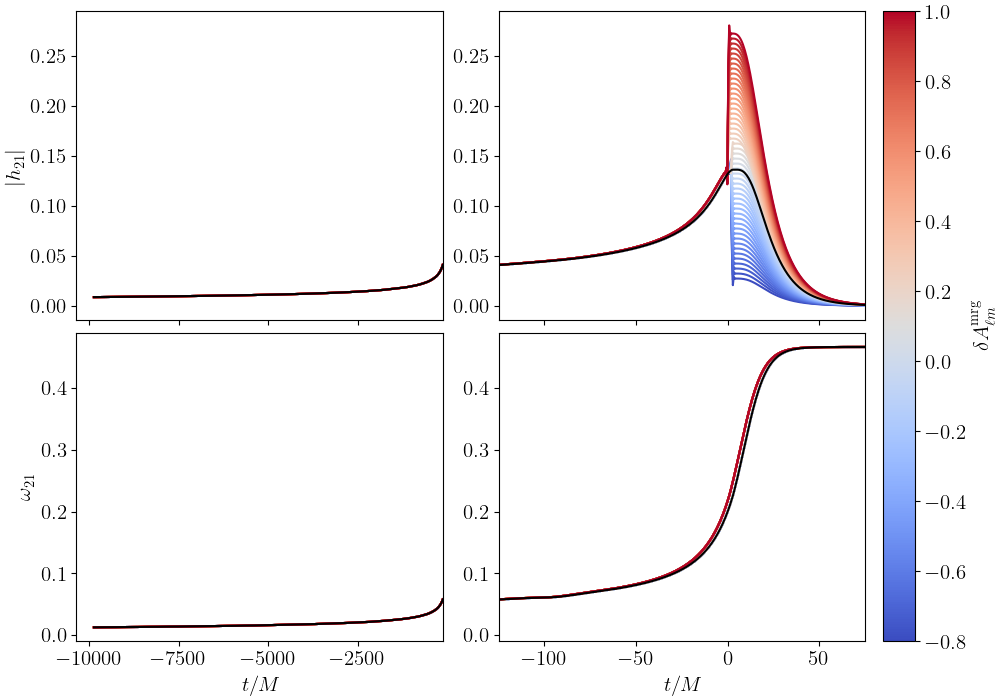
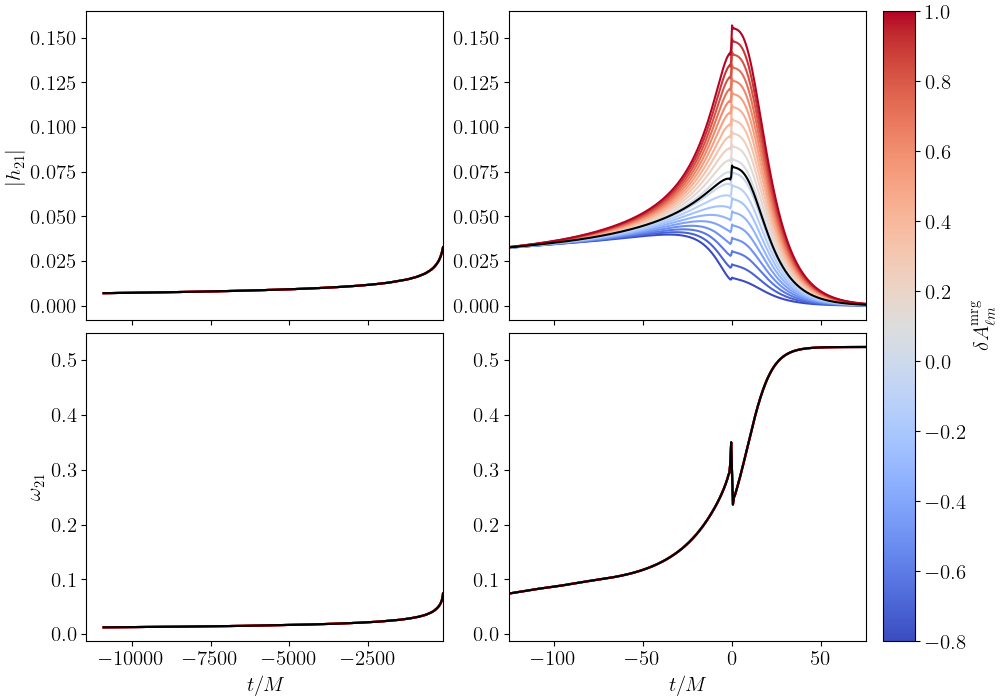
Updated plotting script; bash to generate (current) paper plots; new figures.

diff --git a/py/shift_wfs.py b/py/shift_wfs.py
@@ -10,22 +10,24 @@ import re
 
 if __name__=='__main__':
     parser = argparse.ArgumentParser()
-    parser.add_argument('--par',               type=str,   help='Parameter to shift', required=True)
-    parser.add_argument('--min',               type=float, help='Minimum value',      required=True)
-    parser.add_argument('--max',               type=float, help='Maximum value',      required=True)
-    parser.add_argument('--dp',                type=float, help='Step',               default=None)
-    parser.add_argument('--np',                type=int,   help='Number of values',   default=None)
-    parser.add_argument('--q',                 type=float, help='Mass ratio',         default=1.)
-    parser.add_argument('--chi',               type=float, help='Spin',               default=0.)
-    parser.add_argument('--chi1',                          help='Spin 1',             default=None)
-    parser.add_argument('--chi2',                          help='Spin 2',             default=None)
-    parser.add_argument('--f0',                type=float, help='Initial frequency',  default=0.004)
-    parser.add_argument('--ecc',               type=float, help='Eccentricity',       default=0.)
-    parser.add_argument('-lb2', '--LambdaBl2', type=float, help='LambdaBl2',          default=0.)
-    parser.add_argument('--real',                          help='Plot real part',     action='store_true')
-    parser.add_argument('--dyn',                           help='Plot dynamics',      action='store_true')
-    parser.add_argument('--align',             type=str,   help='Where to align',     default='peak')
-    parser.add_argument('--save',                          help='Save figure?',       action='store_true')
+    parser.add_argument('--par',               type=str,   help='Parameter to shift',  required=True)
+    parser.add_argument('--min',               type=float, help='Minimum value',       required=True)
+    parser.add_argument('--max',               type=float, help='Maximum value',       required=True)
+    parser.add_argument('--dp',                type=float, help='Step',                default=None)
+    parser.add_argument('--np',                type=int,   help='Number of values',    default=None)
+    parser.add_argument('--q',                 type=float, help='Mass ratio',          default=1.)
+    parser.add_argument('--chi',               type=float, help='Spin',                default=0.)
+    parser.add_argument('--chi1',                          help='Spin 1',              default=None)
+    parser.add_argument('--chi2',                          help='Spin 2',              default=None)
+    parser.add_argument('--f0',                type=float, help='Initial frequency',   default=0.004)
+    parser.add_argument('--ecc',               type=float, help='Eccentricity',        default=0.)
+    parser.add_argument('-lb2', '--LambdaBl2', type=float, help='LambdaBl2',           default=0.)
+    parser.add_argument('--real',                          help='Plot real part',      action='store_true')
+    parser.add_argument('--dyn',                           help='Plot dynamics',       action='store_true')
+    parser.add_argument('--align',             type=str,   help='Where to align',      default='peak')
+    parser.add_argument('--save',                          help='Save figure?',        action='store_true')
+    parser.add_argument('--hide',                          help='Do not show figures', action='store_true')
+    parser.add_argument('--nqc',                           help='No NQCs',             action='store_false')
 
     args = parser.parse_args()
 
@@ -77,7 +79,7 @@ if __name__=='__main__':
                         chi1x=chi1[0], chi1y=chi1[1], chi1z=chi1[2],
                         chi2x=chi2[0], chi2y=chi2[1], chi2z=chi2[2],
                         f0=args.f0, ecc=args.ecc, use_mode_lm=modesvec,
-                        LambdaBl2=args.LambdaBl2, use_nqc=True)
+                        LambdaBl2=args.LambdaBl2, use_nqc=args.nqc)
     
     if args.dp is not None and args.np is not None:
         raise ValueError("Specify only one of dp and np!")
@@ -178,4 +180,5 @@ if __name__=='__main__':
         fig.savefig(f'figs/{args.par}_{args.min}_{args.max}.png')
         if args.dyn:
             fid.savefig(f'figs/{args.par}_{args.min}_{args.max}_dyn.png')
-    plt.show()
+    if not args.hide:
+        plt.show()
